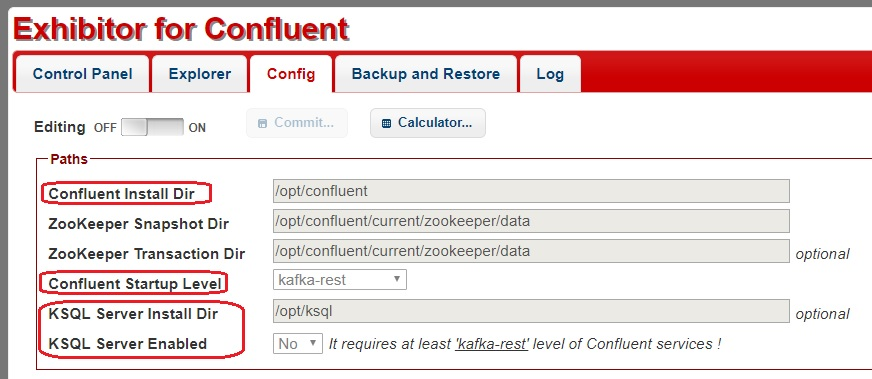
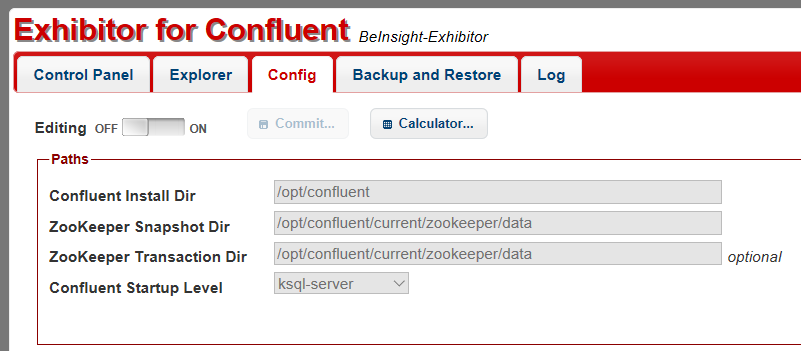
Zookeeper icin data-dir ve config-dir eger yoksa yaratilacak sekilde kod guncellendi..

diff --git a/exhibitor-core/src/main/resources/com/netflix/exhibitor/core/ui/js/exhibitor.js b/exhibitor-core/src/main/resources/com/netflix/exhibitor/core/ui/js/exhibitor.js
@@ -250,8 +250,6 @@ function buildNewConfig()
     newConfig.zookeeperDataDirectory = $('#config-zookeeper-snapshot-dir').val();
     newConfig.zookeeperLogDirectory = $('#config-zookeeper-log-dir').val();
     newConfig.confluentStartupLevel = $('#config-confluent-startup-level').val();
-    newConfig.ksqlInstallDirectory = $('#config-ksql-install-dir').val();
-    newConfig.ksqlEnabled = $('#config-ksql-enabled').val();
     newConfig.logIndexDirectory = $('#config-log-index-dir').val();
     newConfig.autoManageInstancesSettlingPeriodMs = $('#config-automatic-management-period-ms').val();
     newConfig.autoManageInstancesFixedEnsembleSize = $('#config-fixed-ensemble-size').val();
@@ -363,8 +361,6 @@ function ableConfig(enable)
     $('#config-zookeeper-snapshot-dir').prop('disabled', !enable);
     $('#config-zookeeper-log-dir').prop('disabled', !enable);
     $('#config-confluent-startup-level').prop('disabled', !enable);
-    $('#config-ksql-install-dir').prop('disabled', !enable);
-    $('#config-ksql-enabled').prop('disabled', !enable);
     $('#config-automatic-management-period-ms').prop('disabled', !enable);
     $('#config-fixed-ensemble-size').prop('disabled', !enable);
     $('#config-observer-threshold').prop('disabled', !enable);
@@ -410,8 +406,6 @@ function updateConfig()
     $('#config-zookeeper-snapshot-dir').val(systemConfig.zookeeperDataDirectory);
     $('#config-zookeeper-log-dir').val(systemConfig.zookeeperLogDirectory);
     $('#config-confluent-startup-level').val(systemConfig.confluentStartupLevel);
-    $('#config-ksql-install-dir').val(systemConfig.ksqlInstallDirectory);
-    $('#config-ksql-enabled').val(systemConfig.ksqlEnabled);
     $('#config-automatic-management-period-ms').val(systemConfig.autoManageInstancesSettlingPeriodMs);
     $('#config-fixed-ensemble-size').val(systemConfig.autoManageInstancesFixedEnsembleSize);
     $('#config-observer-threshold').val(systemConfig.observerThreshold);
@@ -550,8 +544,6 @@ function checkConfigConfirmation()
         || (newConfig.zookeeperDataDirectory != systemConfig.zookeeperDataDirectory)
         || (newConfig.zookeeperLogDirectory != systemConfig.zookeeperLogDirectory)
         || (newConfig.confluentStartupLevel != systemConfig.confluentStartupLevel)
-        || (newConfig.ksqlInstallDirectory != systemConfig.ksqlInstallDirectory)
-        || (newConfig.ksqlEnabled != systemConfig.ksqlEnabled)
         || (newConfig.serversSpec != systemConfig.serversSpec)
         || (newConfig.clientPort != systemConfig.clientPort)
         || (newConfig.connectPort != systemConfig.connectPort)

diff --git a/exhibitor-core/src/main/resources/com/netflix/exhibitor/core/ui/index.html b/exhibitor-core/src/main/resources/com/netflix/exhibitor/core/ui/index.html
@@ -172,12 +172,8 @@
                             <option value="schema-registry">schema-registry</option>
                             <option value="kafka-rest">kafka-rest</option>
                             <option value="connect">kafka-connect</option>
+                            <option value="ksql-server">ksql-server</option>
                         </select><br clear="all"/>
-                        <label for="config-ksql-install-dir">KSQL Server Install Dir</label><input type="text" id="config-ksql-install-dir" name="config-ksql-install-dir" size="60" title="The directory where the KSQL is installed"><span class="optional">optional</span><br clear="all"/>
-                        <label for="config-ksql-enabled">KSQL Server Enabled</label><select id="config-ksql-enabled" class="mask-pint" name="config-ksql-enabled" size="1" title="If set to 'yes', KSQL server will be run !">
-                            <option value="0">No</option>
-                            <option value="1">Yes</option>
-                    </select><span class="optional">It requires at least <u>'kafka-rest'</u> level of Confluent services !</span>
                         <div id="config-latent-message">
                             NOTE: Until this section is populated Exhibitor will stay in a "latent" state.
                         </div>

diff --git a/exhibitor-core/src/main/java/com/netflix/exhibitor/core/processes/StandardProcessOperations.java b/exhibitor-core/src/main/java/com/netflix/exhibitor/core/processes/StandardProcessOperations.java
@@ -40,9 +40,6 @@ public class StandardProcessOperations implements ProcessOperations
     private static final int    SLEEP_KILL_TIME_MS = 100;
     private static final int    SLEEP_KILL_WAIT_COUNT = 3;
 
-    private static final List<String> ksqlMinLevel = Arrays.asList("kafka-rest", "connect");
-    private boolean isKsqlRunning;
-
     public StandardProcessOperations(Exhibitor exhibitor) throws IOException
     {
         this.exhibitor = exhibitor;
@@ -67,16 +64,6 @@ public class StandardProcessOperations implements ProcessOperations
         }else {
             waitForKill(zkPid, "QuorumPeerMain");
         }
-
-        if( this.isKsqlRunning ) {
-            String ksqlPid = getPid("KsqlRestApplication");
-            if (ksqlPid == null) {
-                exhibitor.getLog().add(ActivityLog.Type.INFO, "jps didn't find instance - assuming KSQL-Server is not running");
-            } else {
-                waitForKill(ksqlPid, "KsqlRestApplication");
-            }
-            this.isKsqlRunning = false;
-        }
     }
 
     private ProcessBuilder buildConfluentScript(String operation, String target) throws IOException
@@ -85,23 +72,6 @@ public class StandardProcessOperations implements ProcessOperations
         File binDirectory = new File(details.confluentDirectory, "bin");
         File confluentScript = new File(binDirectory, "confluent");
         return new ProcessBuilder(confluentScript.getAbsolutePath(), operation, target).directory(binDirectory.getParentFile());
-    }
-
-    private ProcessBuilder buildKsqlStartScript() throws IOException
-    {
-        Details details = new Details(exhibitor);
-        File binDirectory = new File(details.ksqlDirectory, "bin");
-        File configFile = new File(details.ksqlDirectory, "config/ksqlserver.properties");
-        File ksqlScript = new File(binDirectory, "ksql-server-start");
-        return new ProcessBuilder(ksqlScript.getAbsolutePath(), "-daemon", configFile.getAbsolutePath()).directory(binDirectory.getParentFile());
-    }
-
-    private ProcessBuilder buildKsqlStopScript() throws IOException
-    {
-        Details details = new Details(exhibitor);
-        File binDirectory = new File(details.ksqlDirectory, "bin");
-        File ksqlScript = new File(binDirectory, "ksql-server-stop");
-        return new ProcessBuilder(ksqlScript.getAbsolutePath()).directory(binDirectory.getParentFile());
     }
 
     @Override
@@ -113,13 +83,7 @@ public class StandardProcessOperations implements ProcessOperations
         Process confluentProcess = confluentBuilder.start();
         exhibitor.getProcessMonitor().monitor(ProcessTypes.CONFLUENT, confluentProcess, null, ProcessMonitor.Mode.LEAVE_RUNNING_ON_INTERRUPT, ProcessMonitor.Streams.BOTH);
         exhibitor.getLog().add(ActivityLog.Type.INFO, "A new process started via: " + confluentBuilder.command().get(0) + " " + confluentBuilder.command().get(1) + " " + confluentBuilder.command().get(2));
-        int result = confluentProcess.waitFor();
-        if( result == 0 && details.ksqlEnabled && !this.isKsqlRunning && details.isValidPath(details.ksqlDirectory) && ksqlMinLevel.contains(details.confluentStartupLevel)) {
-            ProcessBuilder ksqlBuilder = buildKsqlStartScript();
-            exhibitor.getProcessMonitor().monitor(ProcessTypes.KSQL, ksqlBuilder.start(), null, ProcessMonitor.Mode.LEAVE_RUNNING_ON_INTERRUPT, ProcessMonitor.Streams.BOTH);
-            exhibitor.getLog().add(ActivityLog.Type.INFO, "A new process started via: " + ksqlBuilder.command().get(0) + " " + ksqlBuilder.command().get(1) + " " + ksqlBuilder.command().get(2));
-            this.isKsqlRunning = true;
-        }
+        confluentProcess.waitFor();
     }
 
     private void prepareConfigFile(Details details) throws IOException
@@ -210,8 +174,6 @@ public class StandardProcessOperations implements ProcessOperations
         ProcessBuilder builder = null;
         if( "QuorumPeerMain".equals(jpsName) ) {
             builder = force ? new ProcessBuilder("kill", "-9", pid) : buildConfluentScript("stop", "zookeeper");
-        } else if ("KsqlRestApplication".equals(jpsName)) {
-            builder = force ? new ProcessBuilder("kill", "-9", pid) : buildKsqlStopScript();
         }
         if( builder != null ) {
             try {

diff --git a/exhibitor-core/src/main/java/com/netflix/exhibitor/core/processes/Details.java b/exhibitor-core/src/main/java/com/netflix/exhibitor/core/processes/Details.java
@@ -33,8 +33,6 @@ class Details
     final File logDirectory;
     final Properties properties;
     final String confluentStartupLevel;
-    final File ksqlDirectory;
-    final boolean ksqlEnabled;
 
     Details(Exhibitor exhibitor) throws IOException
     {
@@ -48,8 +46,6 @@ class Details
         this.logDirectory = (cfgLogDir.trim().length() > 0) ? new File(cfgLogDir) : this.dataDirectory;
 
         this.confluentStartupLevel = config.getString(StringConfigs.CONFLUENT_STARTUP_LEVEL);
-        this.ksqlDirectory = new File(config.getString(StringConfigs.KSQL_INSTALL_DIRECTORY));
-        this.ksqlEnabled = config.getInt(IntConfigs.KSQL_ENABLED) > 0;
 
         properties = new Properties();
         if ( isValid() ) {

diff --git a/exhibitor-core/src/main/java/com/netflix/exhibitor/core/config/StringConfigs.java b/exhibitor-core/src/main/java/com/netflix/exhibitor/core/config/StringConfigs.java
@@ -68,18 +68,9 @@ public enum StringConfigs
 
 
     /**
-     * Can be one of these values 'zookeeper' , 'kafka' , 'schema-registry' , 'kafka-rest' , 'connect'
+     * Can be one of these values 'zookeeper' , 'kafka' , 'schema-registry' , 'kafka-rest' , 'connect' , 'ksql-server'
      */
     CONFLUENT_STARTUP_LEVEL
-    {
-        @Override
-        public boolean isRestartSignificant()
-                {
-                    return true;
-                }
-    },
-
-    KSQL_INSTALL_DIRECTORY
     {
         @Override
         public boolean isRestartSignificant()
